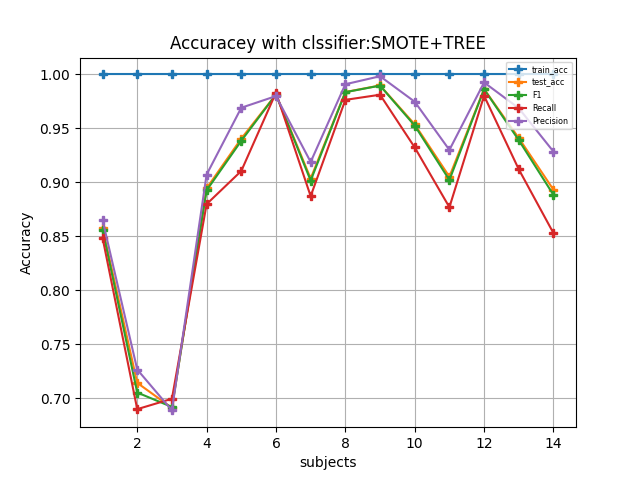
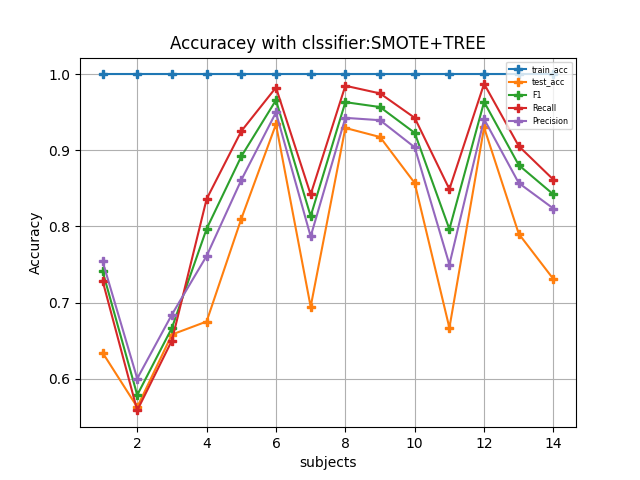
Classification results with unseen data
classification with unseen data done

diff --git a/SMOTE_randomforest_unseen.py b/SMOTE_randomforest_unseen.py
@@ -1,0 +1,128 @@
+import matplotlib.pyplot as plt
+from statistics import mean
+from matplotlib import pyplot
+from sklearn.model_selection import train_test_split
+from sklearn.model_selection import cross_validate
+from sklearn.model_selection import RepeatedStratifiedKFold
+from sklearn.metrics import confusion_matrix,ConfusionMatrixDisplay
+
+from sklearn.ensemble import RandomForestClassifier
+from imblearn.over_sampling import SMOTE
+import mne
+from MLEngine import FilterBank
+from FBCSP import FBCSP
+import pandas as pd
+import numpy as np
+from metrics_plot import plot_metrics
+from sklearn.metrics import f1_score,precision_score,recall_score,accuracy_score
+''' training_accuracy = []
+testing_accuracy = []
+f1=[]
+prec=[]
+recal=[] '''
+subs=14
+clf='SMOTE+TREE'
+All_meterics=np.zeros([6, subs])
+
+for sub in range(1,subs+1,1):
+    epochs = mne.read_epochs('data/clean_s'+str(sub)+'_erp_epochs.fif', preload=True) 
+    
+    #epochs = mne.read_epochs('data/clean_s10_erp_epochs.fif', preload=True)
+    eeg_data = epochs.get_data()
+    # epochs = mne.read_epochs('data/clean_s10_erp_epochs.fif', preload=True)
+    print(epochs['EV_ENC'],epochs['EV_NO_ENC'])
+    
+    labels = epochs.events[:, -1]
+    labels[labels==1]=0
+    labels[labels==2]=1
+    
+    #lets split he data
+    # In the first step we will split the data in training and remaining dataset
+    X_train, X_test, y_train, y_test = train_test_split(eeg_data, labels, test_size=0.1, stratify=labels)
+    print(X_train.shape), print(y_train.shape)
+    print(X_test.shape), print(y_test.shape)
+    
+    m_filters = 2
+    fbank = FilterBank(fs=100.0)
+    fbank_coeff = fbank.get_filter_coeff()
+    filtered_data_train = fbank.filter_data(X_train)
+    filtered_data_test= fbank.filter_data(X_test)
+
+    
+   
+    
+    fbcsp = FBCSP(m_filters)
+    fbcsp.fit(filtered_data_train, y_train)
+    features_mat_train = fbcsp.transform(filtered_data_train, class_idx=0)
+    features_mat_test = fbcsp.transform(filtered_data_test, class_idx=0)
+    print(f'feature shape after transform{features_mat_train.shape}')
+    print(f'feature shape after transform{features_mat_test.shape}')
+    #Use SMOTE to oversample the minority class
+    oversample = SMOTE()
+    over_X, over_y = oversample.fit_resample(features_mat_train,y_train)
+    over_X_train, over_X_test, over_y_train, over_y_test = train_test_split(over_X, over_y, test_size=0.1, stratify=over_y)
+    #Build SMOTE SRF model
+    SMOTE_SRF = RandomForestClassifier(n_estimators=150, random_state=0)
+    #Create Stratified K-fold cross validation
+    cv = RepeatedStratifiedKFold(n_splits=10, n_repeats=3, random_state=1)
+    scoring = ('accuracy','f1', 'recall', 'precision')
+    #Evaluate SMOTE SRF model
+    scores = cross_validate(SMOTE_SRF, over_X, over_y, scoring=scoring, cv=cv,return_train_score=True)
+    #Get average evaluation metrics
+    df=pd.DataFrame(scores)
+    print(df.head())
+    print('trainig f1: %.3f' % mean(scores['train_f1']))
+    print('Mean f1: %.3f' % mean(scores['test_f1']))
+    print('Mean recall: %.3f' % mean(scores['test_recall']))
+    print('Mean precision: %.3f' % mean(scores['test_precision']))
+    
+    
+    
+    
+    ''' training_accuracy.append(scores['train_accuracy'])
+    testing_accuracy.append(scores['test_accuracy'])
+    f1.append(scores['test_f1'])
+    prec.append(scores['test_precision'])
+    recal.append(scores['test_recall']) '''
+    
+    
+    
+    All_meterics[0,sub-1]=sub
+    All_meterics[1,sub-1]= mean(scores['train_accuracy'])
+   
+
+    #Randomly spilt dataset to test and train set
+    #X_train, X_test, y_train, y_test = train_test_split(features_mat, labels, test_size=0.1, stratify=labels)
+    #print(f'tarin={X_train.shape},test={X_test.shape},tr_label{y_train.shape},tst_lable{y_test.shape}')
+    #Train SMOTE SRF
+    SMOTE_SRF.fit(over_X_train, over_y_train)
+    #SMOTE SRF prediction result
+    y_pred = SMOTE_SRF.predict(features_mat_test)
+    f1_test = f1_score(y_test, y_pred)
+    print('The f1 score for the testing data:', f1_test)    
+    
+    acc_test = accuracy_score(y_test, y_pred)
+    print('The f1 score for the testing data:', f1_test)    
+    recal_test = recall_score(y_test, y_pred)
+    print('The recall score for the testing data:', recal_test)  
+    precision_test = precision_score(y_test, y_pred)
+    print('The precison score for the testing data:', precision_test)
+    
+    
+    
+
+    All_meterics[2,sub-1]= acc_test
+    All_meterics[3,sub-1]= f1_test
+    All_meterics[4,sub-1] = recal_test
+    All_meterics[5,sub-1] = precision_test
+    
+    
+    
+    #Create confusion matrix
+    #fig = confusion_matrix(SMOTE_SRF, X_test, y_test, display_labels=['EV_ENC', 'EV_NO,ENC'], cmap='Greens')
+    cm = confusion_matrix(y_test, y_pred)
+    print(cm)
+    cmd = ConfusionMatrixDisplay(cm, display_labels=['EV_ENC', 'EV_NO,ENC'])
+    cmd.plot()
+    plt.savefig(f'confmatSMOTE/subj{sub}clf{clf}')
+plot_metrics(All_meterics,clf)
